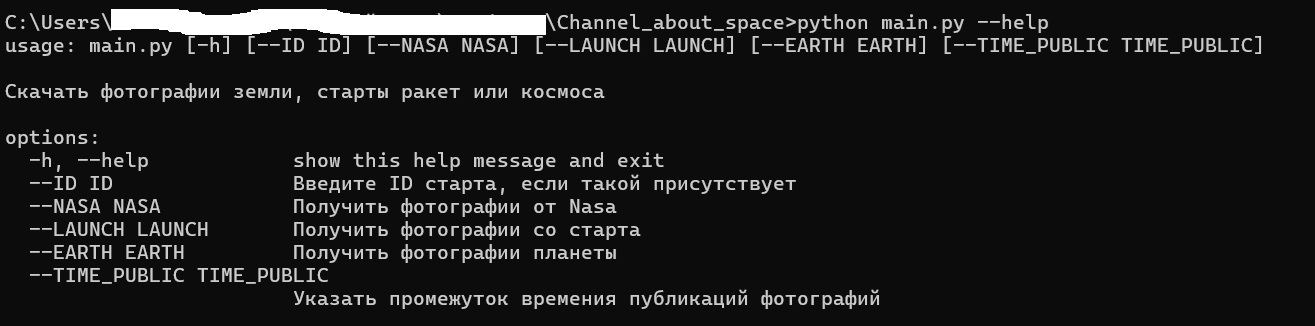
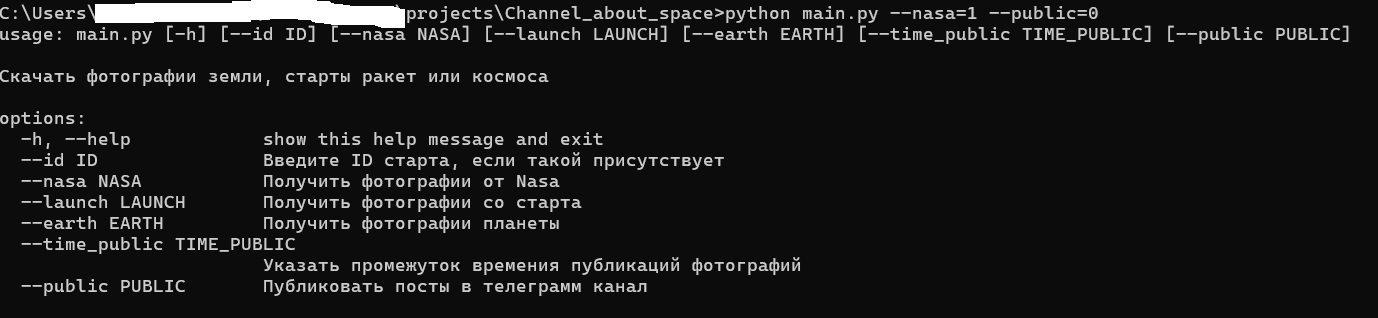
Version 1.1
- Перенес переменные окружения в функцию main()
- Убрал конструкции try/except
- Перенес настройку chat_id  в переменную окружения

diff --git a/main.py b/main.py
@@ -2,37 +2,42 @@ from fetch_launch_images import getting_images_from_launch
 from fetch_earth_images import getting_images_of_the_earth
 from fetch_nasa_images import getting_images_from_nasa
 from tg_bot import send_photo
+from dotenv import load_dotenv
 import pathlib
 import argparse
 import time
-
+import os
+load_dotenv()
 def main():
     pathlib.Path('images').mkdir(parents=True, exist_ok=True)
     parser = argparse.ArgumentParser(
         description='Скачать фотографии земли, старты ракет или космоса'
     )
-    parser.add_argument('--ID', default=False, help='Введите ID старта, если такой присутствует')
-    parser.add_argument('--NASA', default=False, help='Получить фотографии от Nasa')
-    parser.add_argument('--LAUNCH', default=False, help='Получить фотографии со старта')
-    parser.add_argument('--EARTH', default=False, help='Получить фотографии планеты')
-    parser.add_argument('--TIME_PUBLIC', default=4, help='Указать промежуток времения публикаций фотографий')
+    parser.add_argument('--id', default=False, help='Введите ID старта, если такой присутствует')
+    parser.add_argument('--nasa', default=False, help='Получить фотографии от Nasa')
+    parser.add_argument('--launch', default=False, help='Получить фотографии со старта')
+    parser.add_argument('--earth', default=False, help='Получить фотографии планеты')
+    parser.add_argument('--time_public', default=4, help='Указать промежуток времения публикаций фотографий')
+    parser.add_argument('--public', default=0, help='Публиковать посты в телеграмм канал')
     args = parser.parse_args()
     parser.print_help()
-    ID = args.ID
-    NASA = args.NASA
-    LAUNCH = args.LAUNCH
-    EARTH = args.EARTH
-    TIME_PUBLIC = args.TIME_PUBLIC
-    if NASA:
-        getting_images_from_nasa()
-    if LAUNCH:
-        getting_images_from_launch(ID)
-    if EARTH:
-        getting_images_of_the_earth()
+    id = args.id
+    nasa = args.nasa
+    launch = args.launch
+    earth = args.earth
+    time_public = args.time_public
+    public = args.public
+    params = {'api_key': os.getenv('NASA_API_KEY')}
+    if nasa:
+        getting_images_from_nasa(params)
+    if launch:
+        getting_images_from_launch(params, id)
+    if earth:
+        getting_images_of_the_earth(params)
 
-    while True:
-        time.sleep(TIME_PUBLIC * 3600)
-        send_photo()
+    while public:
+        send_photo(os.getenv('link_tg_channel'), os.getenv('TG_BOT_API'))
+        time.sleep(time_public * 3600)
 
 if __name__ == '__main__':
     main()

diff --git a/fetch_launch_images.py b/fetch_launch_images.py
@@ -1,29 +1,22 @@
-from common import fetch_spacex_last_launch
-from dotenv import load_dotenv
+from common import download_photo
 import requests
 
 
-load_dotenv()
-
-def getting_images_from_launch(id=None):
+def getting_images_from_launch(params: dict, id=None):
     if not id:
         response = requests.get(f'https://api.spacexdata.com/v5/launches')
     else:
-        params = {'id': id}
-        response = requests.get(f'https://api.spacexdata.com/v5/launches/', params=params)
+        parameters = {'id': id}
+        response = requests.get(f'https://api.spacexdata.com/v5/launches/', params=parameters)
     response.raise_for_status()
     launches = response.json()
     count = 0
     for launche in launches:
-        try:
-            if launche['links']['flickr']['original']:
-                for index, photo in enumerate(launche['links']['flickr']['original']):
-                    fetch_spacex_last_launch(photo, f'images/spacex_{count}.jpeg')
-                    count += 1
-                    if launche['details']:
-                        with open(f'images/spacex_{count}_text.txt', 'w') as file:
-                            file.write(launche['details'])
-                        break
-        except:
-            continue
+        for index, photo in enumerate(launche['links']['flickr']['original']):
+            download_photo(photo, f'images/spacex_{count}.jpeg', params)
+            count += 1
+            if launche['details']:
+                with open(f'images/spacex_{count}_text.txt', 'w', encoding='utf-8') as file:
+                    file.write(launche['details'])
+                break
 

diff --git a/tg_bot.py b/tg_bot.py
@@ -1,25 +1,22 @@
 import os
-import telegram
 import requests
-from dotenv import load_dotenv
 
-load_dotenv()
-def send_photo():
-    bot = telegram.Bot(token=os.getenv('TG_BOT_API'))
-    url_send_photo = f'https://api.telegram.org/bot{os.getenv("TG_BOT_API")}/sendPhoto'
-    link_tg_channel = '@SpaceX_img'
-    data = {'chat_id': link_tg_channel,}
+def send_photo(link_tg_channel, tg_bot_api):
+    url_send_photo = f'https://api.telegram.org/bot{tg_bot_api}/sendPhoto'
+    data = {'chat_id': link_tg_channel}
 
     for filename in os.listdir('images'):
         if not filename.endswith('.txt'):
-            with open('images/' + filename, 'rb') as image:
-                base_name = filename.split('.')[0]
-                text_file_path = f'{base_name}_text.txt'
-                if text_file_path in os.listdir('images'):
-                    with open('images/' + text_file_path, 'r') as text:
-                        caption = text.read()
-                        data['caption'] = caption
+            with open(f'images/{filename}', 'rb') as image:
+                data['caption'] = send_text(filename)
                 file = {'photo': image}
                 requests.post(url_send_photo, files=file, data=data)
         break
 
+def send_text(filename):
+    base_name = filename.split('.')[0]
+    text_file_path = f'{base_name}_text.txt'
+    if text_file_path in os.listdir('images'):
+        with open(f'images/{text_file_path}', 'r') as text:
+            caption = text.read()
+            return caption

diff --git a/fetch_nasa_images.py b/fetch_nasa_images.py
@@ -1,23 +1,22 @@
-from common import get_the_file_extension, fetch_spacex_last_launch
-from dotenv import load_dotenv
+from common import get_the_file_extension, download_photo
+from contextlib import suppress
 import requests
 import os
 
-
-load_dotenv()
-def getting_images_from_nasa():
+def getting_images_from_nasa(params: dict):
     url = 'https://api.nasa.gov/planetary/apod'
-    params = {'api_key': os.getenv('NASA_API_KEY'), 'count': 30}
-    response = requests.get(url, params=params)
+    parameters = params.copy()
+    parameters['count'] = 30
+    response = requests.get(url, params=parameters)
     response.raise_for_status()
     for image in response.json():
-        try:
+        with suppress(KeyError):
             file_name = get_the_file_extension(image['hdurl'])
-            fetch_spacex_last_launch(image['url'], f'images/nasa_{file_name}')
+            download_photo(image['url'], f'images/nasa_{file_name}', params)
             base_name = file_name.split('.')[0]
             text_file_path = f'{base_name}_text.txt'
             with open(f'images/nasa_{text_file_path}', 'w', encoding='utf-8') as text:
                 text.write(image['explanation'])
-        except KeyError:
-            continue
+
+
 

diff --git a/fetch_earth_images.py b/fetch_earth_images.py
@@ -1,14 +1,9 @@
-from common import fetch_spacex_last_launch
-from dotenv import load_dotenv
+from common import download_photo
 import requests
-import os
 
 
-
-load_dotenv()
-def getting_images_of_the_earth():
+def getting_images_of_the_earth(params):
     url = 'https://api.nasa.gov/EPIC/api/natural/images'
-    params = {'api_key': os.getenv('NASA_API_KEY')}
     response = requests.get(url, params=params)
     response.raise_for_status()
     count = 0
@@ -16,7 +11,7 @@ def getting_images_of_the_earth():
         date = image_earth['date'].split()[0].replace('-', '/')
         image = image_earth['image']
         url = f'https://api.nasa.gov/EPIC/archive/natural/{date}/png/{image}.png'
-        fetch_spacex_last_launch(url, f'images/earth_{image}.jpeg')
+        download_photo(url, f'images/earth_{image}.jpeg', params)
         count += 1
         if count == 5:
             break

diff --git a/common.py b/common.py
@@ -1,13 +1,9 @@
 from urllib.parse import urlparse
-from dotenv import load_dotenv
 import urllib
 import requests
-import os
 
-load_dotenv()
 
-def fetch_spacex_last_launch(url: str, path: str):
-    params = {'api_key': os.getenv('NASA_API_KEY')}
+def download_photo(url: str, path: str, params: dict) -> None:
     response = requests.get(url, params=params)
     response.raise_for_status()
     with open(path, 'wb') as file:

diff --git a/README.md b/README.md
@@ -45,7 +45,10 @@
   
   6. Получить токен для телеграмм-бота с канала @BotFather
   7. Создать телеграмм группу и поставить телеграмм-бота администратором 
-  8. В файле tg_bot.py в переменную `link_tg_channel` поставить ссылку на свою группу
+  8. Переменные окружения
+  - NASA_API_KEY - ключ API для скачивание фотографий
+  - TG_BOT_API - ключ API телеграмм-бота
+  - link_tg_channel - ссылка на группу телеграмм, куда будут публиковаться посты
   9. Запуск:
      - Пример
        ```bash
@@ -53,12 +56,12 @@
        ```
        ![img_1.png](example.jpg)
      В качестве параметров можно передать откуда вы хотите получить фотографии
-       - LAUNCH - фотографии с запуска SpaceX.
-       - NASA - фотографии с сайта Nasa
-       - EARTH - фотографии земли
-       - ID - если указать будут скачены фотографии конкретного старта, в противном случае с последннего старта
-       - TIME_PUBLIC - по умолчанию стоит 4 часа (частота публикаций в телеграмм канал)
-
+       - launch фотографии с запуска SpaceX.
+       - nasa - фотографии с сайта Nasa
+       - earth - фотографии земли
+       - id - если указать будут скачены фотографии конкретного старта, в противном случае с последннего старта
+       - time_public - по умолчанию стоит 4 часа (частота публикаций в телеграмм канал)
+       - public - публикация постов
 ## Цель проекта
   - Код написан в образовательных целях на онлайн-курсе для веб-разработчиков dvmn.org.
 
